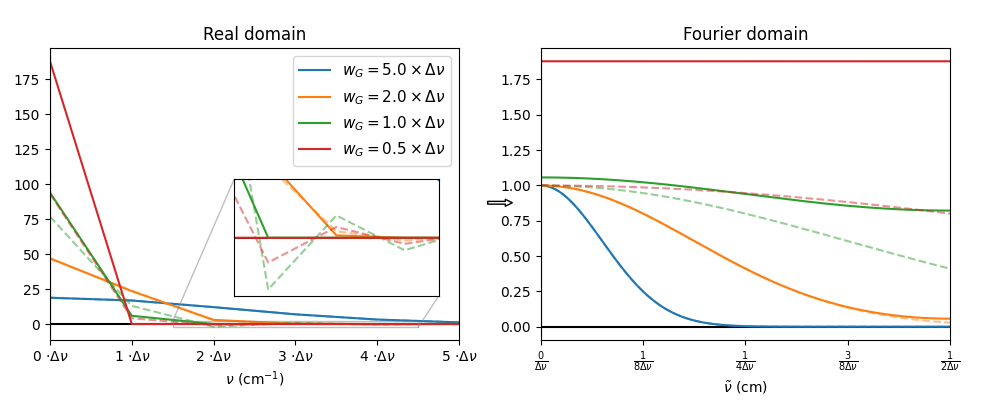
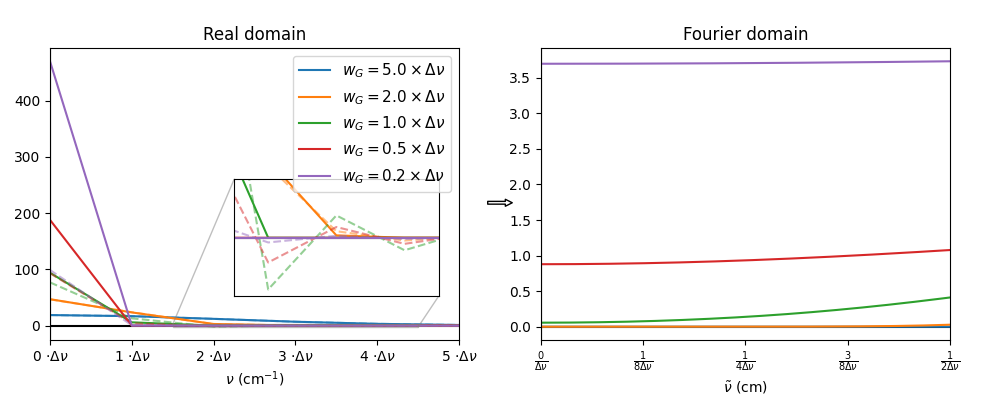
update folding #2

diff --git a/folding/folding5.py b/folding/folding5.py
@@ -1,0 +1,77 @@
+
+import numpy as np
+import matplotlib.pyplot as plt
+from numpy import sqrt, log, exp, pi
+from mpmath import jtheta
+import sys
+
+gG = lambda v,v0,w: (2/w)*sqrt(log(2)/pi)*exp(-4*log(2)*((v-v0)/w)**2)
+
+def theta2(z,tau):
+    return jtheta(3, z, exp(1j*pi*tau))
+
+
+##x = np.arange(-10,10,0.01)
+##y = np.array([float(theta2(0,xi).real) for xi in x])
+##
+##plt.plot(x,y)
+##plt.show()
+##sys.exit()
+
+
+
+
+##def gS(v,v_max,w):
+##    # z is already constrained by |Re(z)| <= 1/2 and |Im(z)| <= Im(tau)/2
+##    # tau should be constrained by F e |Re(tau)| <= 1/2, Im(tau) > 0 and |tau| > 1
+##    tau = 4j*log(2)/pi * (2*v_max/w)**2 #imag (0j..+ooj)
+##    z = v/v_max * tau / 2 #imag (0j..tau/2)
+##    q = exp(1j*pi*tau) #real (0..1)
+##    res = jtheta(3,z*pi,q) * gG(v,0.0,w)
+##    return res
+
+
+def gS(v,v_max,w):
+    tau = 4j*log(2)/pi * (2*v_max/w)**2 #imag (0j..+ooj)
+    z = v/v_max * tau / 2 #imag (0j..tau/2)
+    alpha = 1.0
+
+    alpha = (-1j*tau)**0.5 * exp(1j*pi*z**2/tau)    
+    tau = 1j*pi/(4*log(2)) * (w/(2*v_max))**2 # tau_p = -1/tau
+    z = v/(2*v_max) #z_p = z/tau,  real (0..1/2)
+
+    q = exp(1j*pi*tau) #real (0..1)
+    res = jtheta(3,z*pi,q) * gG(v,0.0,w) / alpha
+    return res
+
+
+dv = 0.001
+N = 1000
+v_max = N*dv
+vh = v_max/2
+Nk = 20
+##w = 1.0
+
+v_arr = np.arange(-v_max,v_max,dv)
+
+
+plt.axhline(0,c='k')
+plt.axvline(0,c='k')
+
+for w in [0.1,0.2,0.5,1.0,2.0,5.0]:
+    print('w:',w)
+    I = gG(v_arr,0.0,w)
+    S = np.sum([gG(v_arr,-2*k*v_max,w) + gG(v_arr,2*k*v_max,w) for k in range(1,Nk)],0)
+    S0 = float(gS(0.0,v_max,w).real)
+    Sh = float(gS(vh,v_max,w).real)
+    S1 = float(gS(v_max,v_max,w).real)
+
+    c = plt.plot(v_arr, I, label=w)[0].get_c()
+    plt.plot(v_arr, S+I, '--', c=c)
+    plt.plot([-v_max,-vh,0.0,vh,v_max],[S1,Sh,S0,Sh,S1],'o',c=c, mfc=c, mec='k')
+    print('')
+##plt.yscale('log')
+plt.legend()
+plt.show()
+
+

diff --git a/folding/folding5b.py b/folding/folding5b.py
@@ -1,0 +1,70 @@
+
+import numpy as np
+import matplotlib.pyplot as plt
+from numpy import sqrt, log, exp, pi
+from mpmath import jtheta
+import sys
+
+gG = lambda v,v0,w: (2/w)*sqrt(log(2)/pi)*exp(-4*log(2)*((v-v0)/w)**2)
+
+def theta2(z,tau):
+    return jtheta(3, z, exp(1j*pi*tau))
+
+
+##x = np.arange(-10,10,0.01)
+##y = np.array([float(theta2(0,xi).real) for xi in x])
+##
+##plt.plot(x,y)
+##plt.show()
+##sys.exit()
+
+
+def gS(v,v_max,w):
+    t = 4*log(2) * (2*v_max/w)**2
+    tau = 1j * t / pi 
+    z = v/(2*v_max) * tau 
+    q = exp(-t) 
+    res = jtheta(3,z*pi,q) * gG(v,0.0,w)
+    return res
+
+
+def gS(v,v_max,w):
+    t = pi**2/(4*log(2)) * (w/(2*v_max))**2
+    #tau = 1j * t / pi #not used
+    z = v/(2*v_max)
+    q = exp(-t)
+    res = jtheta(3,z*pi,q) / (2*v_max)
+    return res
+
+
+dv = 0.001
+N = 1000
+v_max = N*dv
+vh = v_max/2
+Nk = 20
+##w = 1.0
+
+v_arr = np.arange(-v_max,v_max,dv)
+
+
+plt.axhline(0,c='k')
+plt.axvline(0,c='k')
+
+for w in [0.1,0.2,0.5,1.0,2.0,5.0]:
+    print('w:',w)
+    I = gG(v_arr,0.0,w)
+    S = np.sum([gG(v_arr,-2*k*v_max,w) + gG(v_arr,2*k*v_max,w) for k in range(1,Nk)],0)
+    S0 = float(gS(0.0,v_max,w).real)
+    Sh = float(gS(vh,v_max,w).real)
+    S1 = float(gS(v_max,v_max,w).real)
+
+    c = plt.plot(v_arr, I, label=w)[0].get_c()
+    plt.plot(v_arr, S+I, '--', c=c)
+    plt.plot([-v_max,-vh,0.0,vh,v_max],[S1,Sh,S0,Sh,S1],'o',c=c, mfc=c, mec='k')
+    print('')
+##plt.yscale('log')
+plt.ylim(-0.05,0.65)
+plt.legend()
+plt.show()
+
+

diff --git a/folding/folding5c.py b/folding/folding5c.py
@@ -1,0 +1,63 @@
+
+import numpy as np
+import matplotlib.pyplot as plt
+from numpy import sqrt, log, exp, pi
+from mpmath import jtheta
+import sys
+
+gG = lambda v,v0,w: (2/w)*sqrt(log(2)/pi)*exp(-4*log(2)*((v-v0)/w)**2)
+
+def theta2(z,tau):
+    return jtheta(3, z, exp(1j*pi*tau))
+
+#TO-DO:
+# 1. Apply to Voigt (as opposed to Gaussian)
+# 2. Work back from theta function to cos/cosh
+
+
+def gS(v,v_max,w):
+    t = 4*log(2)/pi * (2*v_max/w)**2  # tau = 1j * t
+    z = v/(2*v_max)
+    if t >= 1.0:
+        z *= 1j * t
+        A = gG(v,0.0,w)
+    else:
+        t = 1/t
+        A = 1/(2*v_max)
+        
+    q = exp(-pi*t)
+    res = A * jtheta(3,z*pi,q)
+    return res
+
+
+dv = 0.001
+N = 1000
+v_max = N*dv
+vh = v_max/2
+Nk = 20
+##w = 1.0
+
+v_arr = np.arange(-v_max,v_max,dv)
+
+
+plt.axhline(0,c='k')
+plt.axvline(0,c='k')
+
+for w in [0.2,0.5,1.0,2.0,5.0]:
+    print('w:',w)
+    I = gG(v_arr,0.0,w)
+    S = np.sum([gG(v_arr,-2*k*v_max,w) + gG(v_arr,2*k*v_max,w) for k in range(1,Nk)],0)
+    S0 = float(gS(0.0,v_max,w).real)
+    Sh = float(gS(vh,v_max,w).real)
+    S1 = float(gS(v_max,v_max,w).real)
+
+    c = plt.plot(v_arr, I, label=w)[0].get_c()
+    plt.plot(v_arr, S+I, '--', c=c)
+    plt.plot([-v_max,-vh,0.0,vh,v_max],[S1,Sh,S0,Sh,S1],'o',c=c, mfc=c, mec='k')
+    print('')
+##plt.yscale('log')
+plt.ylim(-0.05,0.65)
+plt.legend()
+plt.show()
+
+

diff --git a/folding/folding2.py b/folding/folding2.py
@@ -19,7 +19,7 @@ x_arr = np.fft.rfftfreq(v_arr.size + N_zpad, dv)
 x_fold = (x_arr,x_arr[::-1])
 folding_thresh = 1e-6
 
-w_arr = np.array([5,2,1,0.5])*dv
+w_arr = np.array([5,2,1,0.5,0.2])*dv
 
 fig, (ax1,ax2) = plt.subplots(1,2,figsize=(10,4))
 plt.subplots_adjust(left=0.05,right=0.95,bottom=0.15)
@@ -45,7 +45,7 @@ for w in w_arr:
     p, = ax1.plot(v_arr,I,'--',alpha=0.5)
     axins.plot(v_arr,I,'--',alpha=0.5)
     c = p.get_color()
-    ax2.plot(x_arr,I_FT,'--',c=c,alpha = 0.5)
+    
 
     I2 = gG(v_arr,w)
     I2_FT = np.fft.rfft(list(I2) + [0] + list(I2)[:0:-1])*dv # this assumes N_zpad = v_arr.size
@@ -53,7 +53,10 @@ for w in w_arr:
 
     ax1.plot(v_arr,I2,c=c,label = '$w_G = {:.1f} \\times \\Delta\\nu$'.format(w/dv))
     axins.plot(v_arr,I2,c=c)
-    ax2.plot(x_arr,I2_FT.real,c=c) ## I2 is symmetric, so I2_FT has only real components
+
+##    ax2.plot(x_arr,I_FT,'--',c=c,alpha = 0.5)
+##    ax2.plot(x_arr,I2_FT.real,c=c) ## I2 is symmetric, so I2_FT has only real components
+    ax2.plot(x_arr,I2_FT.real - I_FT, c=c)
     
 N_ticks = 6
 ax1.set_title('Real domain')
